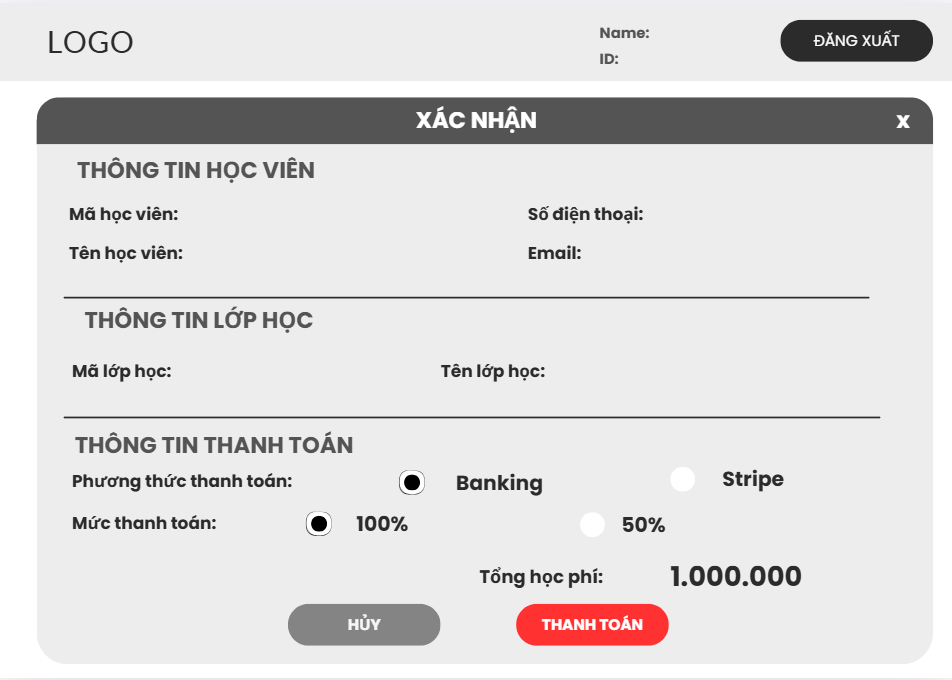
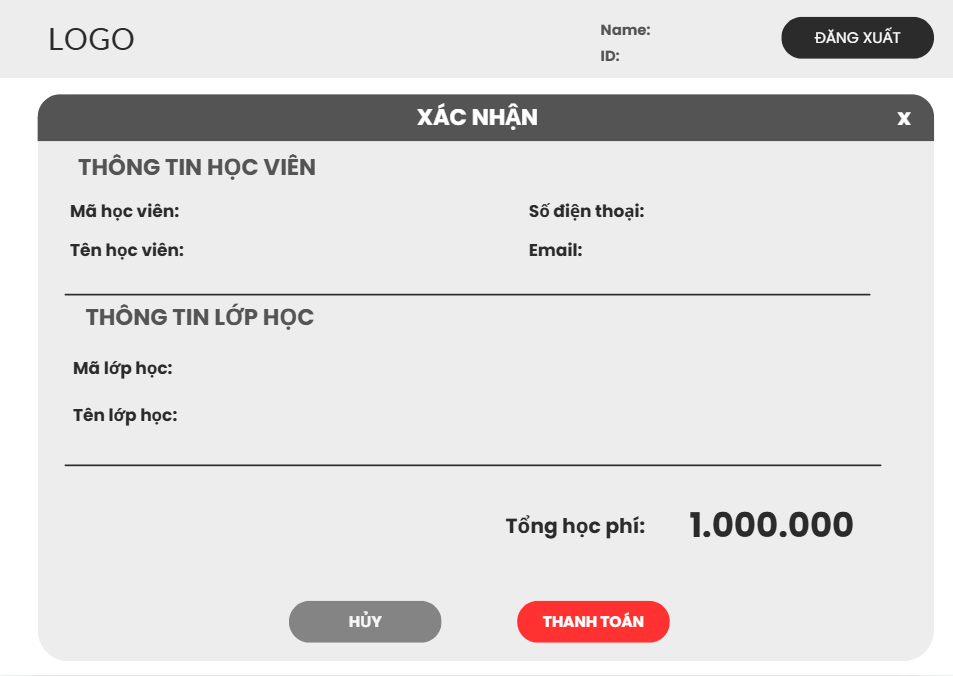
update requirements.md: add UI bien lai, dang ky khoa hoc 5, dieu huong admin va teacher; fix bao cao thong ke, dang ky khoa hoc 4, quan ly cau hinh

diff --git a/docs/requirements.md b/docs/requirements.md
@@ -580,7 +580,7 @@ BR-30: Hệ thống cung cấp báo cáo thống kê quý, năm theo:
 - Ràng buộc Enum:
   + Tất cả các trường kiểu enum chỉ được nhận các giá trị đã được định nghĩa sẵn:
     + Bảng Enrollment: trường enrollment_status (Chờ, Đang học, Dừng học)
-    + Bảng Payment: trường payment_status (Chờ, Thành công, Thất bại), trường payment_method (Stripe, Banking)
+    + Bảng Payment: trường payment_status (Thành công, chờ thanh toán, thanh toán 1 phần), trường payment_method (Stripe, Banking)
     + Bảng Attendance: trường attendance_status (Vắng, Trễ, Có mặt)
     + Bảng User: trường auth_provider (Facebook, Google)
 ---
@@ -620,18 +620,30 @@ BR-30: Hệ thống cung cấp báo cáo thống kê quý, năm theo:
 ![UI-dang-ky-khoa-hoc](screenshots/dang-ky-khoa-hoc-2.png)
 ![UI-dang-ky-khoa-hoc](screenshots/dang-ky-khoa-hoc-3.png)
 ![UI-dang-ky-khoa-hoc](screenshots/dang-ky-khoa-hoc-4.png)
+![UI-dang-ky-khoa-hoc](screenshots/dang-ky-khoa-hoc-5.png)
 
 ## 9.3 UI Xem Lịch Học - Thời Khóa Biểu
 ![UI-xem-lich-hoc-thoi-khoa-bieu](screenshots/xem-khoa-hoc-va-thoi-khoa-bieu.png)
 
 ## 9.4 UI Báo Cáo
-![UI-bao-cao](screenshots/bao-cao.png)
+![UI-bao-cao-thong-ke](screenshots/bao-cao-thong-ke.png)
 
 ## 9.5 UI Xem Lịch Dạy
 ![UI-xem-lich-day](screenshots/xem-lich-day.png)
 
 ## 9.6 UI Quản Lý Cấu Hình
-![UI-quan-ly-cau-hinh](screenshots/cau-hinh.png)
+![UI-quan-ly-cau-hinh](screenshots/quan-ly-cau-hinh.png)
+
+## 9.7 UI Biên Lai
+![UI-bien-lai](screenshots/bien-lai.png)
+
+## 9.6 UI Điều Hướng
+### Admin
+![UI-dieu-huong-admin](screenshots/dieu-huong-admin.png)
+### Teacher
+![UI-dieu-huong-teacher](screenshots/dieu-huong-teacher.png)
+
+
 
 
 
